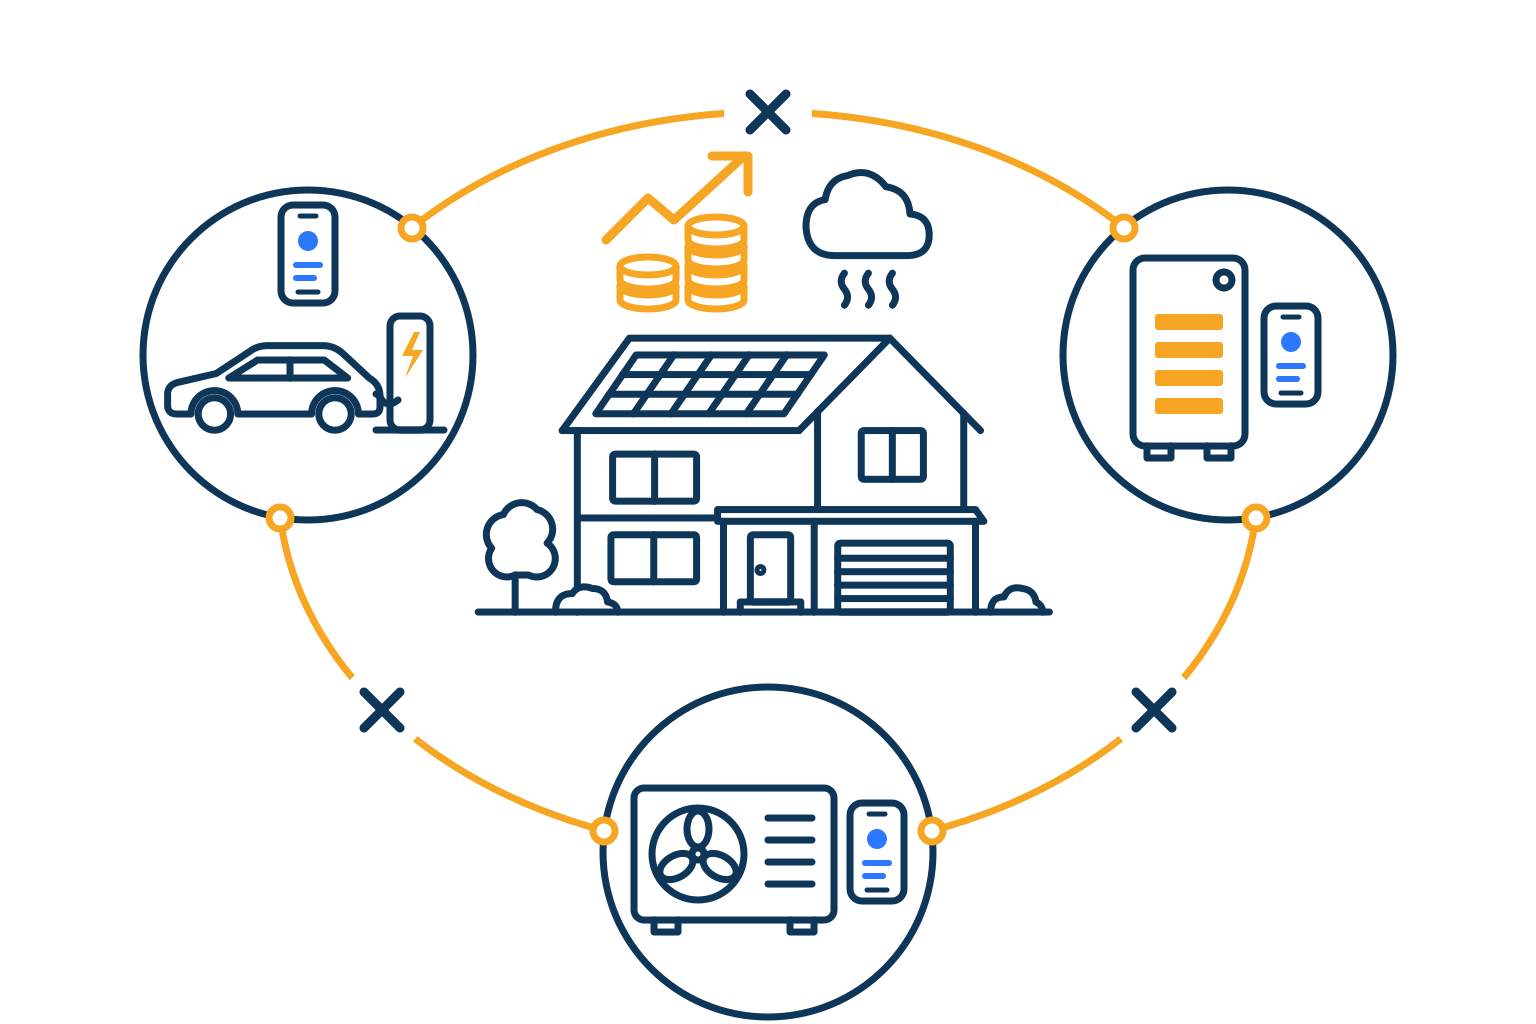
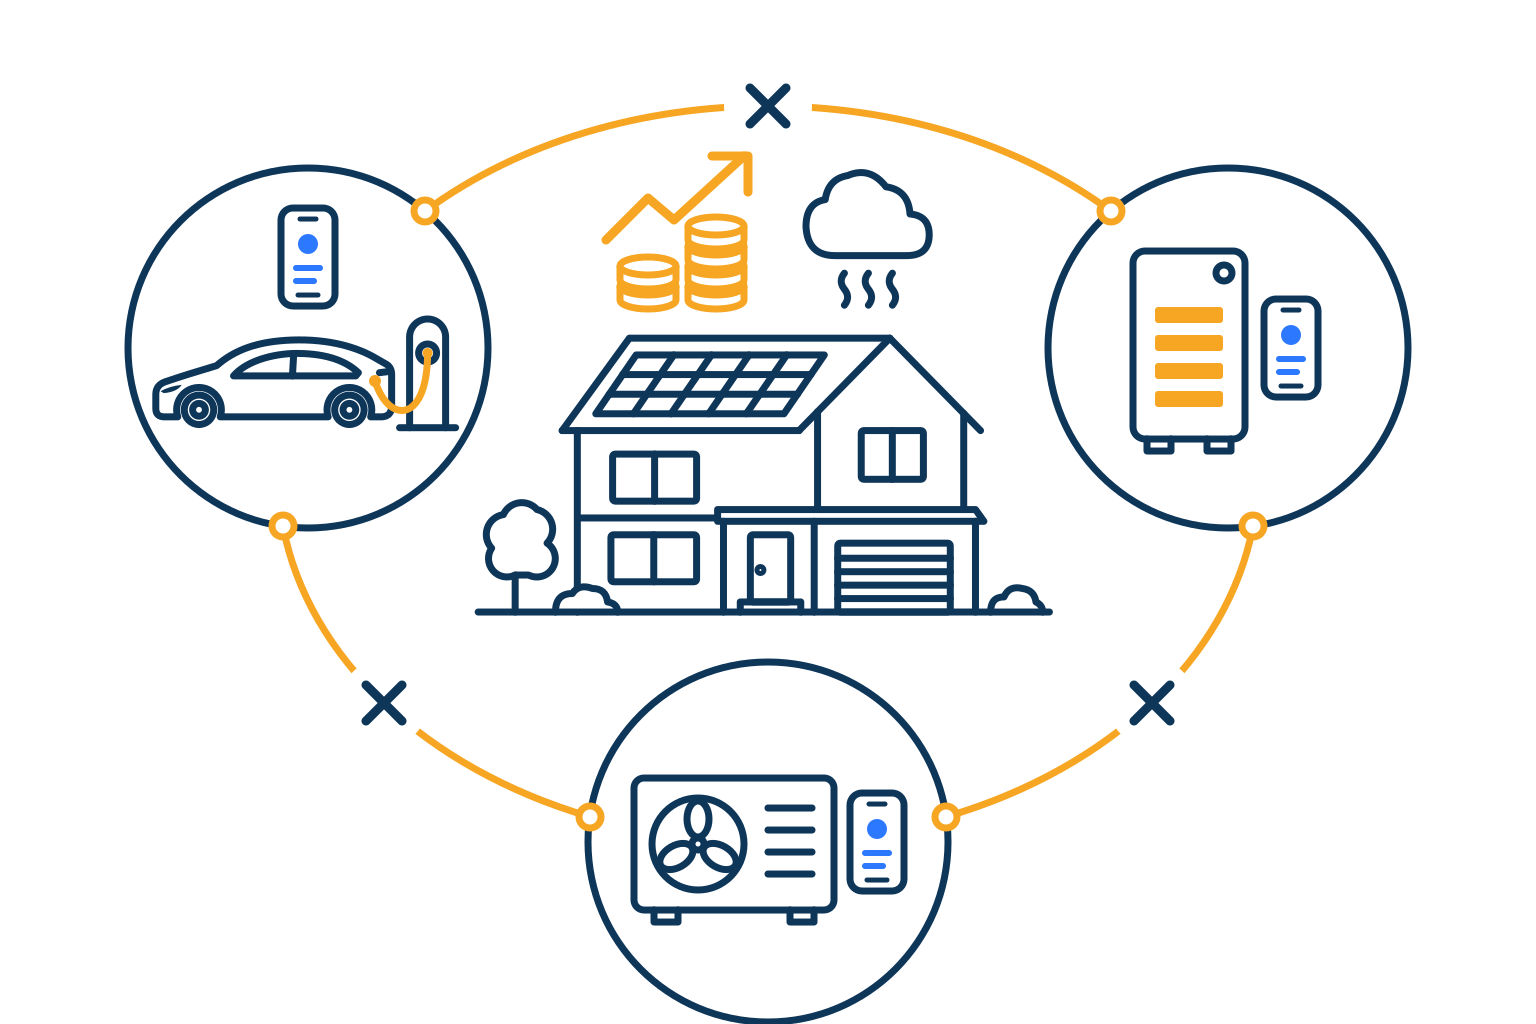
artwork: trace cover car into problem illustration and add house and phone components

diff --git a/README.md b/README.md
@@ -46,7 +46,24 @@ emissions sit above the home. It is
 exported at 1536 by 1024 from its editable source,
 `problem-fragmented-home.svg`, with
 `rsvg-convert -w 1536 -h 1024 problem-fragmented-home.svg -o problem-fragmented-home.png`.
-It contains no logo or text.
+It contains no logo or text. Its home and phones are copies of the components
+below.
+
+## Illustration components
+
+`components/` holds line-art parts to reuse in insight images and other
+illustrations, so that the same object looks the same everywhere. Each
+component is a standalone SVG in the light-background palette: navy `#0E3659`
+lines, `#2C78FF` and `#F6A623` accents, and white fills where a part must hide
+lines behind it. Its stroke is 7 units at its native size, which matches a
+1536 by 1024 illustration. To reuse one, copy its contents into a
+`<g transform="translate(x,y)">`; if you scale it, scale the stroke widths back
+so that the lines keep the weight of the rest of the image.
+
+| Component | What it shows |
+| --- | --- |
+| `components/house.svg` | Two-storey home with a solar roof, porch, garage, tree and bushes, as in `hero-connected-home.png`. Its ground line is at the bottom of the view box. |
+| `components/phone.svg` | A device's own app on a phone: speaker slot, home bar and a simple blue screen. |
 
 ## Brand and distribution assets
 

diff --git a/AGENTS.md b/AGENTS.md
@@ -10,6 +10,9 @@ artwork. The website consumes this repository as the `brand/` Git submodule.
 - `wiggle-symbol.svg` is the current light-background symbol master;
   `wiggle-symbol-dark.svg` is its dark-background counterpart.
 - Keep source SVGs editable and validate them with `xmllint --noout`.
+- When a new illustration shows an object that `components/` already has, such
+  as the home or a phone, copy that component instead of drawing a new one.
+  If you improve a component, update every illustration that copies it.
 - `wiggle-symbol.png` is a 1024 by 1024 transparent export generated from
   the current light SVG with `rsvg-convert`; regenerate it after master geometry or
   colour changes.
